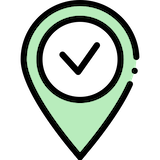
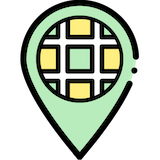
Some aesthetic changes

diff --git a/MainMap.js b/MainMap.js
@@ -80,7 +80,7 @@ function MainMap() {
 
   const requestiOSGPSPermission = async () => {
     try {
-      const granted = await Geolocation.requestAuthorization('whenInUse');
+      const granted = await Geolocation.requestAuthorization("whenInUse");
       return granted;
     } catch (err) {
       throw err;
@@ -96,7 +96,7 @@ function MainMap() {
       });
     } else {
       requestiOSGPSPermission().then((granted) => {
-        if (granted === 'granted') {
+        if (granted === "granted") {
           getGPSLocation();
         }
       });
@@ -154,7 +154,7 @@ function MainMap() {
 
   const getCurrentGeoHashFormatted = () => {
     return currentGeohash
-      ? currentGeohash.toUpperCase().replace(/(.{1})(.{4})(.{4})/gi, "$1-$2-$3")
+      ? currentGeohash.toUpperCase().replace(/(.{3})(.{3})(.{3})/gi, "$1-$2-$3")
       : unknownGeohash;
   };
 
@@ -178,7 +178,6 @@ function MainMap() {
   };
 
   const parseGeohashToCoordinates = (geohash) => {
-    let coordinates = null;
     try {
       coordinates = Geohash.decode(geohash);
 
@@ -186,9 +185,9 @@ function MainMap() {
         latitude: coordinates.lat,
         longitude: coordinates.lon,
       };
-    } catch (e) {}
-
-    return coordinates;
+    } catch (e) {
+      return null;
+    }
   };
 
   const getGeohashAreaBounds = () => {
@@ -356,11 +355,8 @@ function MainMap() {
               setIsLoading(false);
             }}
           >
-            <Image
-              source={isLoading ? unknownMarkerImage : markerImage}
-              style={Styles.mapMarker}
-            />
-            <Callout style={{ width: 200 }}>
+            <Image source={markerImage} style={Styles.mapMarker} />
+            <Callout style={Styles.markerCallout}>
               <Text>
                 {`Latitud: ${mapLocation.latitude}` +
                   `\nLongitud: ${mapLocation.longitude}` +

diff --git a/styles/Style.js b/styles/Style.js
@@ -80,4 +80,5 @@ export default StyleSheet.create({
     fontSize: 12,
     fontWeight: "bold",
   },
+  markerCallout: { width: 200 },
 });
